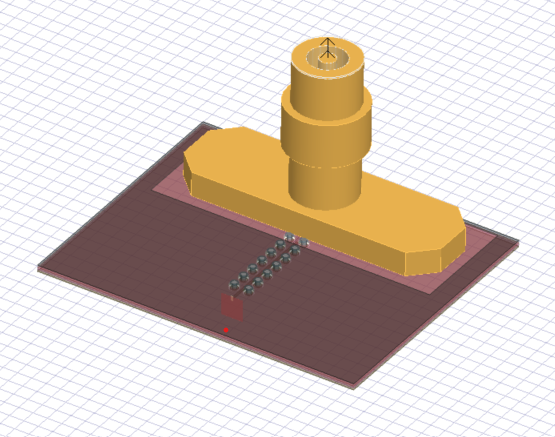
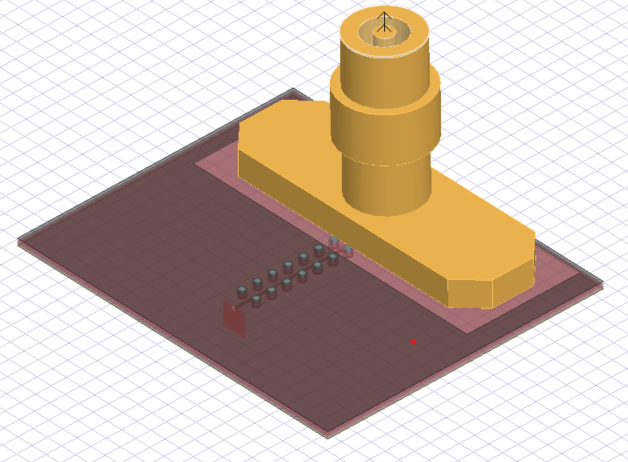
FIX: 04_pre_layout_sma_connector_on_pcb.py

Changed region(s): [[0.0, 0.0, 1.0, 1.0]]

diff --git a/examples/01-HFSS3DLayout/04_pre_layout_sma_connector_on_pcb.py b/examples/01-HFSS3DLayout/04_pre_layout_sma_connector_on_pcb.py
@@ -49,6 +49,9 @@ NG_MODE = False
 aedb = os.path.join(temp_folder.name, "new_layout.aedb")
 edbapp = Edb(edbpath=aedb, edbversion=AEDT_VERSION)
 
+# Set antipad always on.
+edbapp.design_options.antipads_always_on = True
+
 # ## Add material definitions
 
 edbapp.materials.add_conductor_material(name="copper", conductivity=58000000)
@@ -101,6 +104,7 @@ board_center_point = [0, "5mm"]
 
 gnd_l2 = edbapp.modeler.create_rectangle(
     layer_name="L2",
+    net_name="GND",
     center_point=board_center_point,
     width=board_width,
     height=board_length,
@@ -111,6 +115,7 @@ gnd_l2 = edbapp.modeler.create_rectangle(
 
 gnd_l3 = edbapp.modeler.create_rectangle(
     layer_name="L3",
+net_name="GND",
     center_point=board_center_point,
     width=board_width,
     height=board_length,
@@ -121,6 +126,7 @@ gnd_l3 = edbapp.modeler.create_rectangle(
 
 gnd_bottom = edbapp.modeler.create_rectangle(
     layer_name="BOT",
+net_name="GND",
     center_point=board_center_point,
     width=board_width,
     height=board_length,
@@ -194,7 +200,7 @@ sig2_trace.add_point(x=0, y="1mm", incremental=True)
 
 # Create trace-to-ground clearance
 
-sig2_path = sig_trace.get_center_line()
+sig2_path = sig2_trace.get_center_line()
 path_list = [sig_path, sig2_path]
 for i in path_list:
     void = edbapp.modeler.create_trace(path_list=i, layer_name="BOT", width="width+gap*2",
@@ -238,8 +244,7 @@ setup.hfss_solver_settings.order_basis = "first"
 setup.add_frequency_sweep(
     "Sweep1",
     frequency_sweep=[
-        ["linear count", "0", "1KHz", 1],
-        ["log scale", "1KHz", "100MHz", 3],
+        ["log scale", "10MHz", "100MHz", 3],
         ["linear scale", "0.1GHz", "5GHz", "0.2GHz"],
     ],
 )
@@ -292,7 +297,7 @@ h3d.close_desktop()
 
 # ## Cleanup
 #
-# All project files are saved in the folder ``temp_file.dir``. If you've run this example as a Jupyter notbook you 
+# All project files are saved in the folder ``temp_file.dir``. If you've run this example as a Jupyter notebook you
 # can retrieve those project files. The following cell removes all temporary files, including the project folder.
 
 temp_folder.cleanup()
